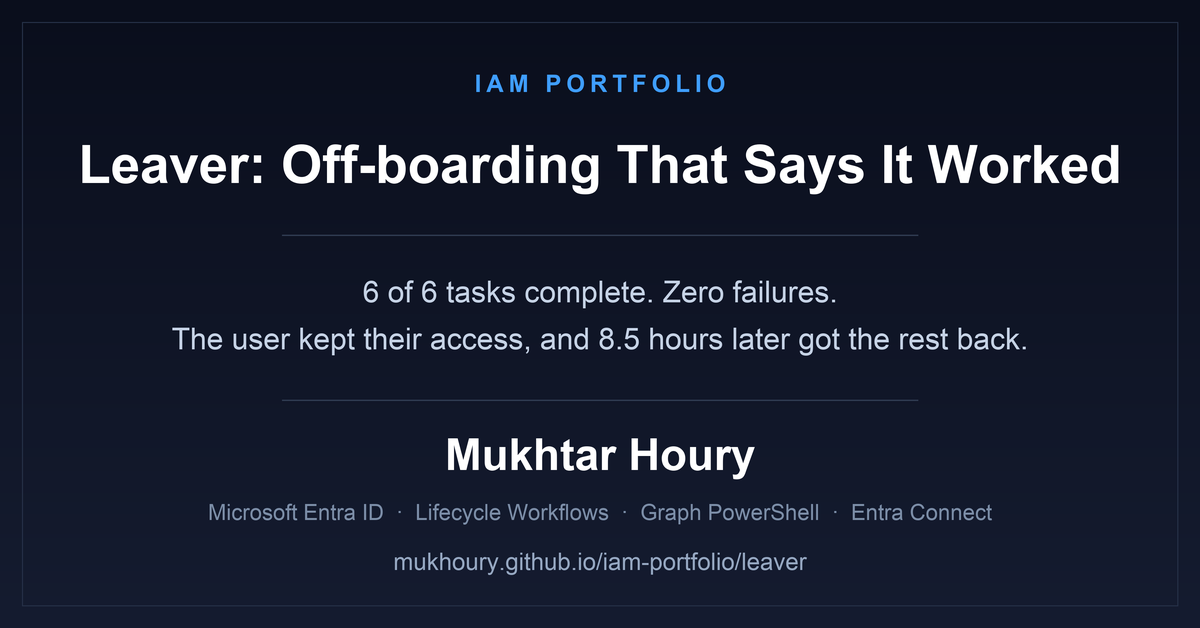
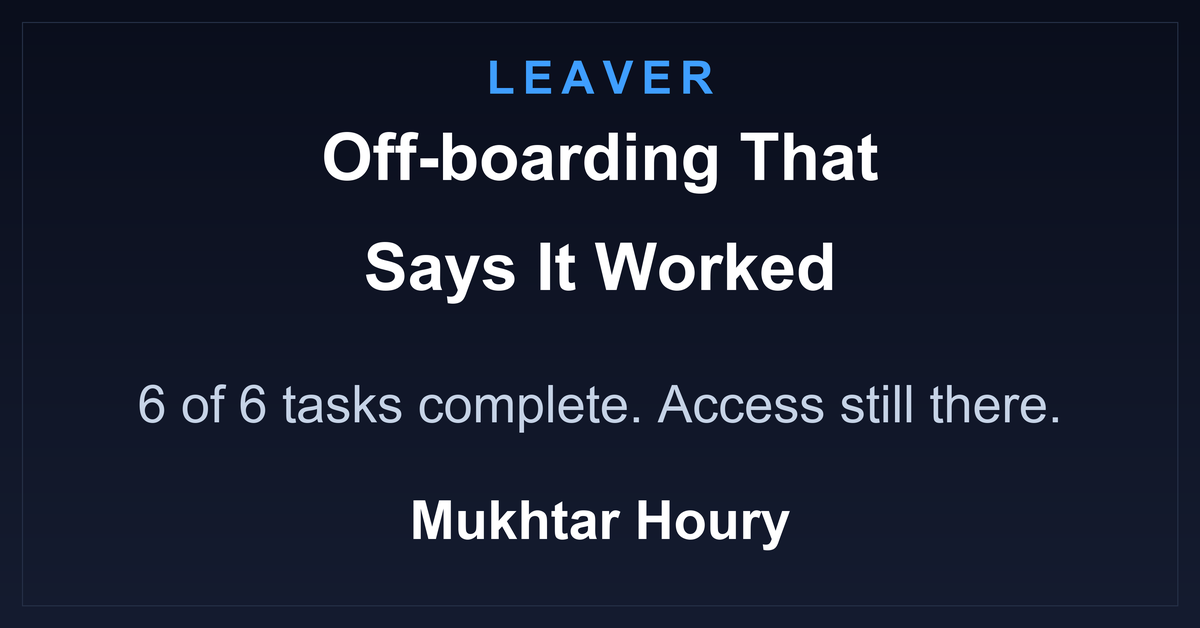
Enlarge text on wide Leaver card

diff --git a/assets/make-leaver-featured-wide.py b/assets/make-leaver-featured-wide.py
@@ -59,18 +59,12 @@ def rule(y, frac=0.72):
     d.line([(w/2 - rw/2, y*S), (w/2 + rw/2, y*S)], fill=RULE, width=max(1, int(1.4*S)))
 
 # ---------- content ----------
-center("IAM PORTFOLIO", fit("IAM PORTFOLIO", BOLD, 24, CONTENT, tr=5), 70, BLUE, tr=5)
-f_title = fit("Off-boarding That Says It Worked", BOLD, 64, CONTENT)
-center("Leaver: Off-boarding That Says It Worked", fit("Leaver: Off-boarding That Says It Worked", BOLD, 60, CONTENT), 135, WHITE)
-rule(235, 0.6)
-f_desc = fit("The user kept their access, and 8.5 hours later got the rest back.", REG, 30, CONTENT)
-center("6 of 6 tasks complete. Zero failures.", f_desc, 275, SUB)
-center("The user kept their access, and 8.5 hours later got the rest back.", f_desc, 322, SUB)
-rule(400, 0.6)
-center("Mukhtar Houry", fit("Mukhtar Houry", BOLD, 44, CONTENT), 430, WHITE)
-f = fit("Microsoft Entra ID  ·  Lifecycle Workflows  ·  Graph PowerShell  ·  Entra Connect", REG, 22, CONTENT)
-center("Microsoft Entra ID  ·  Lifecycle Workflows  ·  Graph PowerShell  ·  Entra Connect", f, 500, DIM)
-URL = "mukhoury.github.io/iam-portfolio/leaver"
-center(URL, fit(URL, REG, 24, CONTENT), 548, MID)
+center("LEAVER", fit("LEAVER", BOLD, 46, CONTENT, tr=8), 52, BLUE, tr=8)
+ft = fit("Off-boarding That Says It Worked", BOLD, 96, CONTENT)
+center("Off-boarding That", ft, 120, WHITE)
+center("Says It Worked", ft, 230, WHITE)
+fd = fit("6 of 6 tasks complete. Access still there.", REG, 52, CONTENT)
+center("6 of 6 tasks complete. Access still there.", fd, 375, SUB)
+center("Mukhtar Houry", fit("Mukhtar Houry", BOLD, 54, CONTENT), 490, WHITE)
 img.resize((W, H), Image.LANCZOS).save(OUT, "PNG", optimize=True)
 print("wrote", OUT, W, H)
